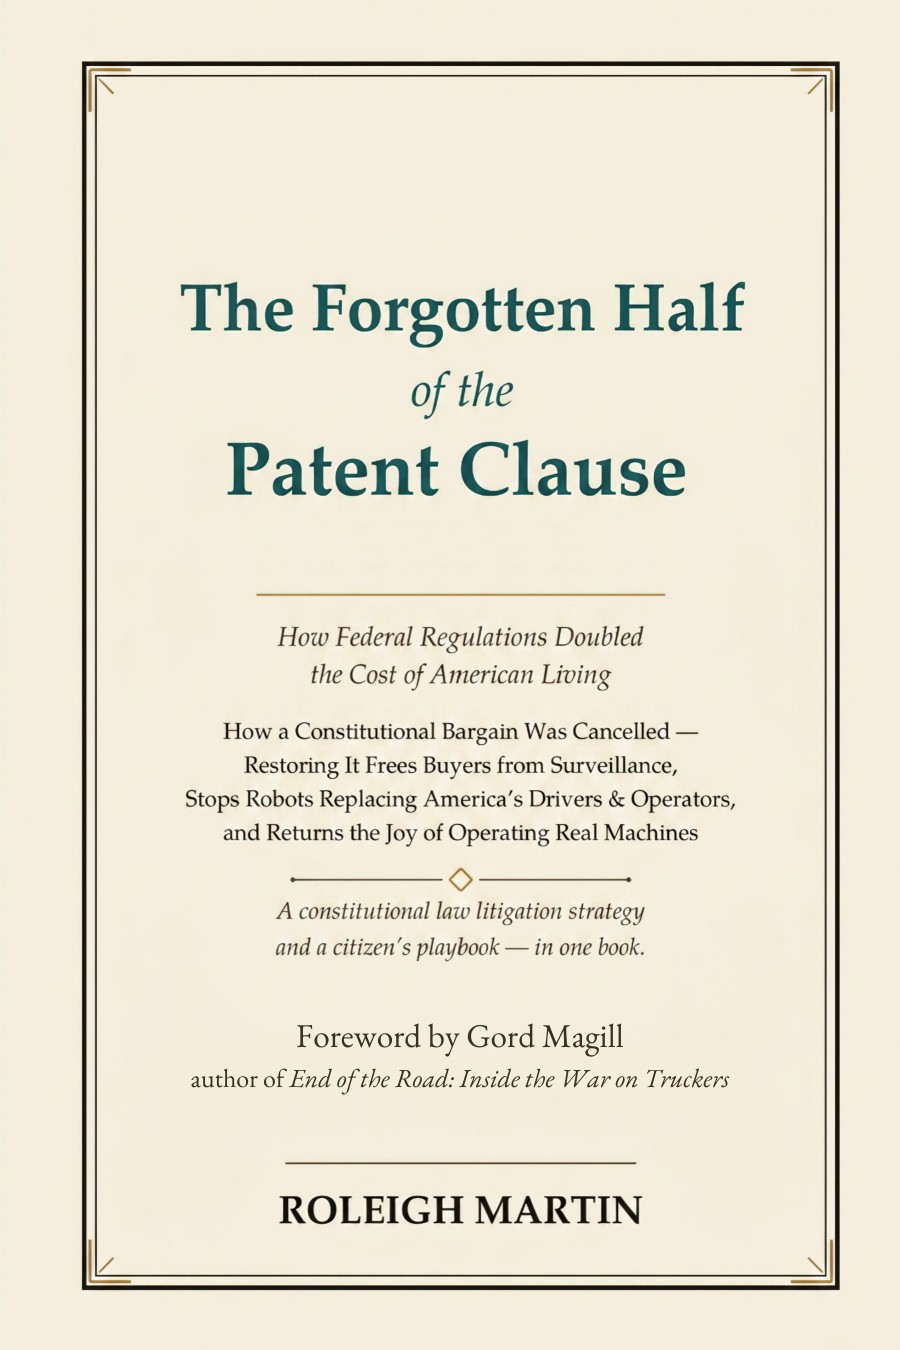
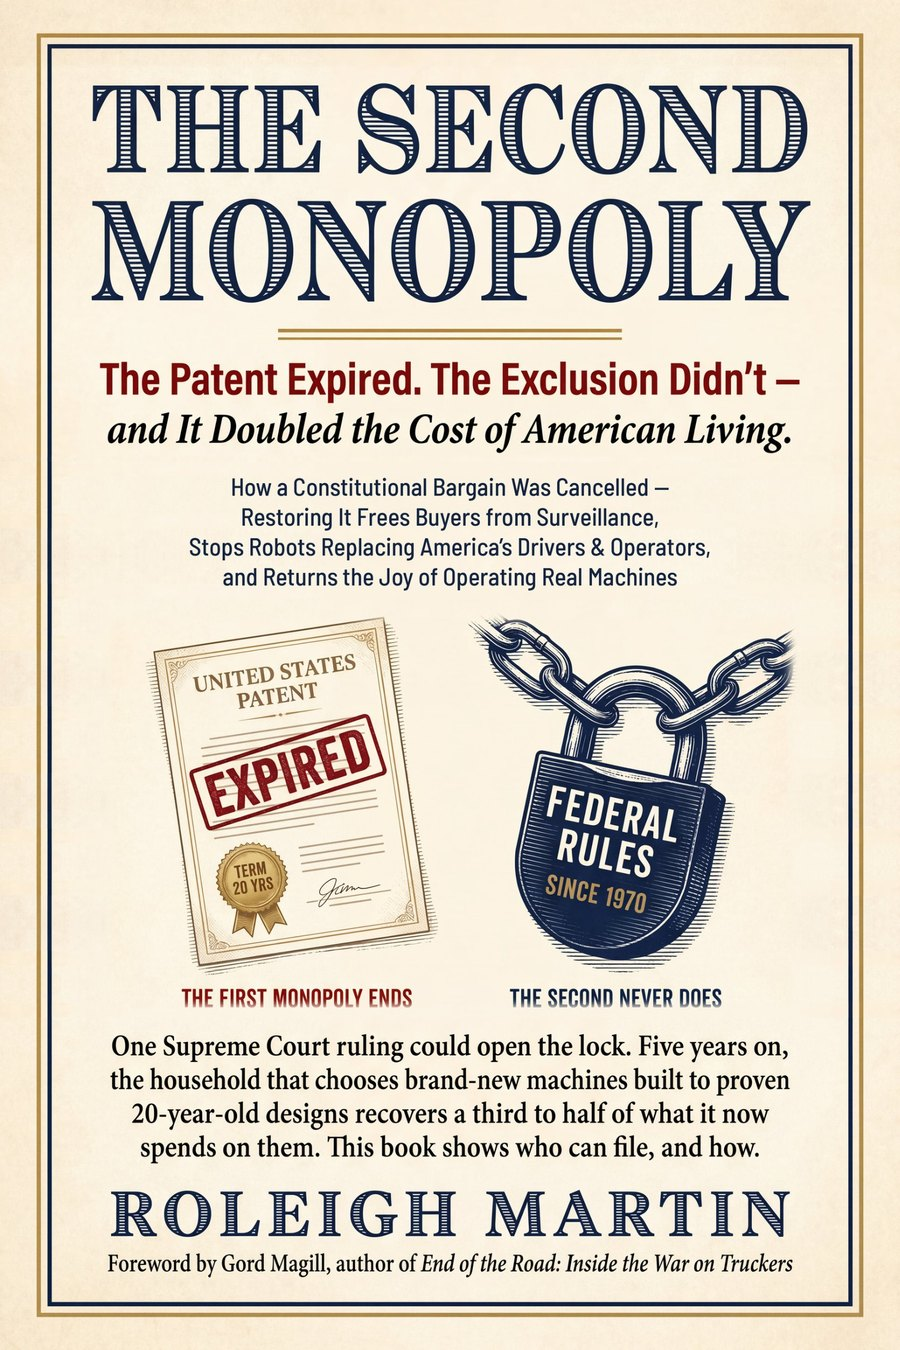
Add files via upload

Changed region(s): [[0.0311, 0.0, 0.9644, 0.9956], [0.0, 0.9956, 0.0311, 1.0]]

diff --git a/BookCover.html b/BookCover.html
@@ -3,9 +3,9 @@
 <head>
 <meta charset="utf-8">
 <meta name="viewport" content="width=device-width, initial-scale=1">
-<title>The cover &mdash; The Forgotten Half of the Patent Clause</title>
-<meta name="description" content="Front cover, spine and back cover of The Forgotten Half of the Patent Clause by Roleigh Martin, foreword by Gord Magill.">
-<meta property="og:title" content="The Forgotten Half of the Patent Clause &mdash; the cover">
+<title>The cover &mdash; The Second Monopoly</title>
+<meta name="description" content="Front cover, spine and back cover of The Second Monopoly (formerly titled The Forgotten Half of the Patent Clause) by Roleigh Martin, foreword by Gord Magill.">
+<meta property="og:title" content="The Second Monopoly &mdash; the cover">
 <meta property="og:image" content="cover_front.jpg">
 <style>
 :root {
@@ -74,16 +74,16 @@ footer em { display: block; margin-bottom: 0.5rem; }
 
   <h1>What the book will look like</h1>
 
-  <p>Six by nine inches, 593 pages, printed as a trade paperback. The cover below is the file that goes to the printer &mdash; front, spine and back.</p>
+  <p>Six by nine inches, 586 pages, printed as a trade paperback. The cover below is the file that goes to the printer &mdash; front, spine and back.</p>
 
   <div class="pair">
     <figure>
-      <img src="cover_front.jpg" alt="Front cover: The Forgotten Half of the Patent Clause, by Roleigh Martin, foreword by Gord Magill.">
+      <img src="cover_front.jpg" alt="Front cover: The Second Monopoly &mdash; The Patent Expired. The Exclusion Didn&rsquo;t &mdash; and It Doubled the Cost of American Living, by Roleigh Martin, foreword by Gord Magill.">
       <figcaption>Front cover.</figcaption>
     </figure>
     <figure>
-      <img src="cover_back.jpg" alt="Back cover: the Patent Clause quoted in full, two Supreme Court passages, and a chart showing 58 percent of the public domain blocked, 27 percent flowing, 15 percent hindered.">
-      <figcaption>Back cover. The clause itself, two of the eighty-five cases, and where the blockage falls.</figcaption>
+      <img src="cover_back.jpg" alt="Back cover: The patent expired. The price didn&rsquo;t. A $72,495 pickup in chains today beside the choices open five years after a Supreme Court ruling, the three conditions the savings come with, and a code that opens this page.">
+      <figcaption>Back cover. What one Supreme Court ruling would change, and when &mdash; with the three conditions the savings come with.</figcaption>
     </figure>
   </div>
 
@@ -101,7 +101,7 @@ footer em { display: block; margin-bottom: 0.5rem; }
   </div>
 
   <footer>
-    <em>The Forgotten Half of the Patent Clause &nbsp;&middot;&nbsp; by Roleigh Martin &nbsp;&middot;&nbsp; Copyright &copy; 2026. All rights reserved.</em>
+    <em>The Second Monopoly &nbsp;&middot;&nbsp; by Roleigh Martin &nbsp;&middot;&nbsp; Copyright &copy; 2026. All rights reserved.</em>
     To reach the author, or to send a paragraph:
     <a href="https://x.com/RoleighMartin">x.com/RoleighMartin</a> &nbsp;&middot;&nbsp;
     <a href="mailto:RoleighMartin@proton.me">RoleighMartin@proton.me</a>
